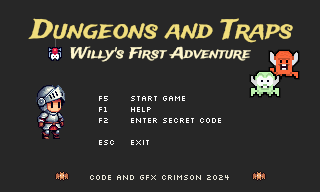
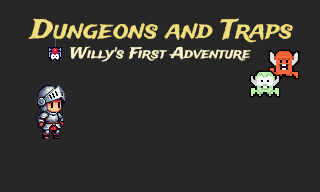
feat(game): Menu with keyboard (up/down) selection added to the First page.

diff --git a/src/game.py b/src/game.py
@@ -49,8 +49,9 @@ class Game:
         self.header = Header(self.screen, self.header_surface, self.game_manager)
         self.dashboard = Dashboard(self.screen, self.dashboard_surface, self.game_manager)
 
-        # First page, message dialog and summary panel
+        # First page, dialogs and summary panel
         self.first_page = None
+        self.menu_dialog = None
         self.message_dialog = None
         self.summary_panel = None
 
@@ -64,7 +65,7 @@ class Game:
         self.loop_end_time = None
         self.clock = pygame.time.Clock()
 
-        # Secret code input
+        # Secret code input text
         self.secret_code_text = ""
 
         # Tracks movement keys pressed in GAME_IS_RUNNING so KEYUP events from other states are ignored
@@ -103,15 +104,26 @@ class Game:
                 # Custom events
                 self.handle_custom_events(event)
 
-            # Main game logic
             if self.game_manager.game_status == GameStatus.GAME_IS_RUNNING:
+                # Main game logic
                 self.level.run()
-            elif self.game_manager.game_status == GameStatus.FIRST_PAGE and self.first_page is not None:
+            elif self.game_manager.game_status == GameStatus.FIRST_PAGE:
                 self.first_page.draw()
-            elif self.game_manager.game_status == GameStatus.SUMMARY and self.summary_panel is not None:
-                self.summary_panel.draw()
-            elif self.message_dialog is not None:
+                self.menu_dialog.draw()
+            elif self.game_manager.game_status == GameStatus.SECRET_CODE:
                 self.message_dialog.draw()
+            elif self.game_manager.game_status == GameStatus.SECRET_CODE_IS_VALID:
+                self.message_dialog.draw()
+            elif self.game_manager.game_status == GameStatus.NEXT_LEVEL:
+                self.message_dialog.draw()
+            elif self.game_manager.game_status == GameStatus.GAME_IS_PAUSED:
+                self.menu_dialog.draw()
+            elif self.game_manager.game_status == GameStatus.LEVEL_COMPLETED:
+                self.message_dialog.draw()
+            elif self.game_manager.game_status == GameStatus.GAME_OVER:
+                self.message_dialog.draw()
+            elif self.game_manager.game_status == GameStatus.SUMMARY:
+                self.summary_panel.draw()
 
             pygame.display.update()
 
@@ -140,20 +152,53 @@ class Game:
             return new_fps
 
     def handle_keyboard_buttons_down(self, event):
-        if self.game_manager.game_status == GameStatus.FIRST_PAGE:
+        if self.game_manager.game_status == GameStatus.GAME_IS_RUNNING:
+            if event.key == pygame.K_DOWN or event.key == pygame.K_s:
+                self.active_movement_keys.add(event.key)
+                self.game_manager.set_player_movement(0, 1)
+            if event.key == pygame.K_UP or event.key == pygame.K_w:
+                self.active_movement_keys.add(event.key)
+                self.game_manager.set_player_movement(0, -1)
+            if event.key == pygame.K_RIGHT or event.key == pygame.K_d:
+                self.active_movement_keys.add(event.key)
+                self.game_manager.set_player_movement(1, 0)
+            if event.key == pygame.K_LEFT or event.key == pygame.K_a:
+                self.active_movement_keys.add(event.key)
+                self.game_manager.set_player_movement(-1, 0)
+            if event.key == pygame.K_LCTRL or event.key == pygame.K_LSHIFT:
+                self.game_manager.set_player_is_using_weapon(True)
+            if event.key == pygame.K_x:
+                self.game_manager.set_next_weapon()
+            if event.key == pygame.K_z:
+                self.game_manager.set_previous_weapon()
             if event.key == pygame.K_ESCAPE:
-                # Exit
+                # Open pause dialog and pause the game
+                self.active_movement_keys.clear()
+                self.game_manager.reset_player_movement()
+                self.game_manager.switch_pause_state()
+                self.load_game_paused_menu()
+        elif self.game_manager.game_status == GameStatus.FIRST_PAGE:
+            if event.key == pygame.K_ESCAPE:
                 return False
-            if event.key == pygame.K_F2:
-                # Open secret code dialog
-                self.dispose_first_page()
-                self.game_manager.set_secret_code()
-                self.load_secret_code_message_dialog()
-            if event.key == pygame.K_F5:
-                # Close first page and start next level
-                self.dispose_first_page()
-                self.game_manager.set_next_level()
-                self.load_next_level_message_dialog()
+            if event.key == pygame.K_UP or event.key == pygame.K_w:
+                self.menu_dialog.select_previous()
+            if event.key == pygame.K_DOWN or event.key == pygame.K_s:
+                self.menu_dialog.select_next()
+            if event.key == pygame.K_RETURN or event.key == pygame.K_SPACE:
+                selected = self.menu_dialog.get_selected_index()
+                if selected == 0:
+                    # New Game
+                    self.dispose_first_page()
+                    self.game_manager.set_next_level()
+                    self.load_next_level_message_dialog()
+                elif selected == 1:
+                    # Secret Code
+                    self.dispose_first_page()
+                    self.game_manager.set_secret_code()
+                    self.load_secret_code_message_dialog()
+                elif selected == 2:
+                    # Quit
+                    return False
         elif self.game_manager.game_status == GameStatus.SECRET_CODE:
             if event.key == pygame.K_ESCAPE:
                 # Close secret code dialog and show first page
@@ -201,53 +246,28 @@ class Game:
                 self.clean_screen()
                 self.refresh_header_surface()
                 self.refresh_dashboard_surface()
-        elif self.game_manager.game_status == GameStatus.GAME_IS_RUNNING:
-            if event.key == pygame.K_DOWN or event.key == pygame.K_s:
-                self.active_movement_keys.add(event.key)
-                self.game_manager.set_player_movement(0, 1)
-            if event.key == pygame.K_UP or event.key == pygame.K_w:
-                self.active_movement_keys.add(event.key)
-                self.game_manager.set_player_movement(0, -1)
-            if event.key == pygame.K_RIGHT or event.key == pygame.K_d:
-                self.active_movement_keys.add(event.key)
-                self.game_manager.set_player_movement(1, 0)
-            if event.key == pygame.K_LEFT or event.key == pygame.K_a:
-                self.active_movement_keys.add(event.key)
-                self.game_manager.set_player_movement(-1, 0)
-            if event.key == pygame.K_LCTRL or event.key == pygame.K_LSHIFT:
-                self.game_manager.set_player_is_using_weapon(True)
-            if event.key == pygame.K_x:
-                self.game_manager.set_next_weapon()
-            if event.key == pygame.K_z:
-                self.game_manager.set_previous_weapon()
-            if event.key == pygame.K_ESCAPE:
-                # Open pause dialog and pause the game
-                self.active_movement_keys.clear()
-                self.game_manager.reset_player_movement()
-                self.game_manager.switch_pause_state()
-                self.load_game_paused_message_dialog()
         elif self.game_manager.game_status == GameStatus.GAME_IS_PAUSED:
             if event.key == pygame.K_ESCAPE:
                 # Close pause menu and continue the game
                 self.active_movement_keys.clear()
                 self.game_manager.reset_player_movement()
-                self.dispose_message_dialog()
+                self.dispose_menu_dialog()
                 self.game_manager.switch_pause_state()
             if event.key == pygame.K_UP or event.key == pygame.K_w:
-                self.message_dialog.select_previous()
+                self.menu_dialog.select_previous()
             if event.key == pygame.K_DOWN or event.key == pygame.K_s:
-                self.message_dialog.select_next()
+                self.menu_dialog.select_next()
             if event.key == pygame.K_RETURN or event.key == pygame.K_SPACE:
-                selected = self.message_dialog.get_selected_index()
+                selected = self.menu_dialog.get_selected_index()
                 if selected == 0:
                     # Resume
                     self.active_movement_keys.clear()
                     self.game_manager.reset_player_movement()
-                    self.dispose_message_dialog()
+                    self.dispose_menu_dialog()
                     self.game_manager.switch_pause_state()
                 elif selected == 1:
                     # Restart level or trigger game over if no lives left
-                    self.dispose_message_dialog()
+                    self.dispose_menu_dialog()
                     self.game_manager.decrease_number_of_lives()
                     if self.game_manager.lives > 0:
                         self.game_manager.clear_settings_for_current_level()
@@ -259,7 +279,7 @@ class Game:
                         pygame.event.post(pygame.event.Event(Settings.GAME_OVER_SUMMARY_EVENT))
                 elif selected == 2:
                     # Quit to main menu and reset all progress
-                    self.dispose_message_dialog()
+                    self.dispose_menu_dialog()
                     self.game_manager.clear_settings_for_first_level()
                     self.level = Level(self.screen, self.game_surface, self.game_manager)
                     self.game_manager.set_first_page()
@@ -429,15 +449,21 @@ class Game:
 
     def load_first_page(self):
         self.first_page = FirstPage(self.screen)
+        self.menu_dialog = MenuBox(self.screen, 500, 0, 0,
+                                   Settings.MESSAGE_BACKGROUND_COLOR, Settings.MESSAGE_BORDER_COLOR,
+                                   Settings.HIGHLIGHTED_TEXT_COLOR, Settings.TEXT_COLOR,
+                                   None, ['New Game', 'Secret Code', 'Quit'],
+                                   show_border=False)
 
     def dispose_first_page(self):
         self.first_page = None
+        self.menu_dialog = None
 
-    def load_game_paused_message_dialog(self):
-        self.message_dialog = MenuBox(self.screen, 740, 200, 20,
-                                      Settings.MESSAGE_BACKGROUND_COLOR, Settings.MESSAGE_BORDER_COLOR,
-                                      Settings.HIGHLIGHTED_TEXT_COLOR, Settings.TEXT_COLOR,
-                                      'PAUSED', ['Resume', 'Restart level', 'Quit game'])
+    def load_game_paused_menu(self):
+        self.menu_dialog = MenuBox(self.screen, 740, 200, 20,
+                                   Settings.MESSAGE_BACKGROUND_COLOR, Settings.MESSAGE_BORDER_COLOR,
+                                   Settings.HIGHLIGHTED_TEXT_COLOR, Settings.TEXT_COLOR,
+                                   'PAUSED', ['Resume', 'Restart level', 'Quit game'])
 
     def load_level_completed_message_dialog(self):
         current_stats = self.game_manager.level_stats[-1]
@@ -538,6 +564,9 @@ class Game:
             messages.append(Message('Press the ESC button to return to the main page', Settings.TEXT_COLOR, 16))
         self.message_dialog = MessageBox(self.screen, 800, 300, 20, Settings.MESSAGE_BACKGROUND_COLOR,
                                               Settings.MESSAGE_BORDER_COLOR, messages)
+
+    def dispose_menu_dialog(self):
+        self.menu_dialog = None
 
     def dispose_message_dialog(self):
         self.message_dialog = None

diff --git a/src/panels/menu_box.py b/src/panels/menu_box.py
@@ -11,7 +11,8 @@ class MenuBox:
     def __init__(self, screen: pygame.Surface, width: int, height: int, top_margin: int,
                  background_color: pygame.Color, border_color: pygame.Color,
                  highlighted_color: pygame.Color, normal_color: pygame.Color,
-                 title: str, items: list[str]):
+                 title: str | None, items: list[str],
+                 show_border: bool = True):
         self.screen = screen
         self.width = width
         self.height = height
@@ -21,6 +22,7 @@ class MenuBox:
         self.normal_color = normal_color
         self.title = title
         self.items = items
+        self.show_border = show_border
         self.selected_index = 0
 
         self.rect_position = (screen.get_rect().width // 2 - width // 2,
@@ -39,17 +41,18 @@ class MenuBox:
 
     def draw(self):
         rectangle = pygame.rect.Rect(self.rect_position[0], self.rect_position[1], self.width, self.height)
-        border = rectangle.inflate(-8, -8)
         pygame.draw.rect(self.screen, self.background_color, rectangle)
-        pygame.draw.rect(self.screen, self.border_color, border, 4)
+        if self.show_border:
+            pygame.draw.rect(self.screen, self.border_color, rectangle.inflate(-8, -8), 4)
 
-        title_font = pygame.font.Font(self._FONT_PATH, self._TITLE_FONT_SIZE)
         item_font = pygame.font.Font(self._FONT_PATH, self._ITEM_FONT_SIZE)
 
-        title_surface = title_font.render(self.title, True, self.highlighted_color, self.background_color)
-        self.screen.blit(title_surface, (self.text_center_x - title_surface.get_width() // 2, self.text_start_y))
-
-        y_offset = title_surface.get_height() + self._TITLE_BOTTOM_GAP
+        y_offset = 0
+        if self.title is not None:
+            title_font = pygame.font.Font(self._FONT_PATH, self._TITLE_FONT_SIZE)
+            title_surface = title_font.render(self.title, True, self.highlighted_color, self.background_color)
+            self.screen.blit(title_surface, (self.text_center_x - title_surface.get_width() // 2, self.text_start_y))
+            y_offset = title_surface.get_height() + self._TITLE_BOTTOM_GAP
 
         for index, item_text in enumerate(self.items):
             if index == self.selected_index:
